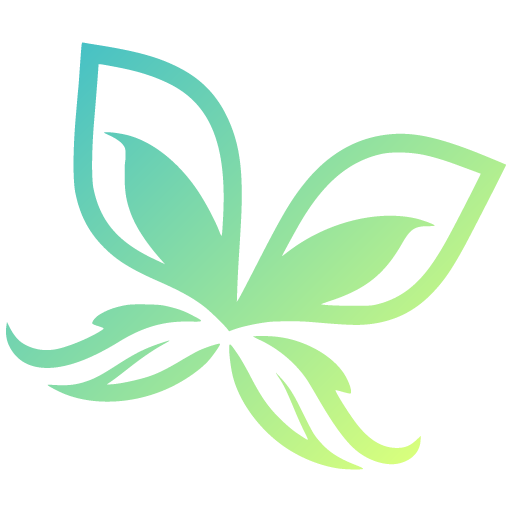
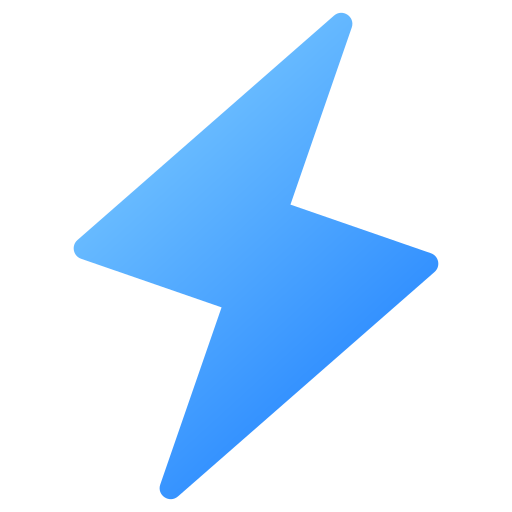
20260513end

diff --git a/src/config/siteConfig.ts b/src/config/siteConfig.ts
@@ -33,7 +33,7 @@ export const siteConfig: SiteConfig = {
 	// 主题色
 	themeColor: {
 		// 主题色的默认色相，范围从 0 到 360。例如：红色：0，青色：200，蓝绿色：250，粉色：345
-		hue: 165,
+		hue: 210,
 		// 是否对访问者隐藏主题色选择器
 		fixed: false,
 		// 默认模式："light" 亮色，"dark" 暗色，"system" 跟随系统
@@ -43,14 +43,14 @@ export const siteConfig: SiteConfig = {
 	// 页面整体宽度（单位：rem）
 	// 数值越大可以让页面内容区域更宽
 	// 在使用单侧栏边栏时，建议调低一些宽度以获得更好的视觉效果。
-	pageWidth: 100,
+	pageWidth: 95,
 
 	// 网站Card样式配置
 	card: {
 		// 是否开启卡片边框和阴影，开启后让网站更有立体感
 		border: true,
 		// 是否让卡片风格跟随主题色相
-		followTheme: false,
+		followTheme: true,
 	},
 
 	// Favicon 配置
@@ -85,7 +85,7 @@ export const siteConfig: SiteConfig = {
 		// 导航菜单对齐方式，left：左对齐，center：居中
 		menuAlign: "center",
 		// 导航栏图标和标题是否跟随主题色
-		followTheme: false,
+		followTheme: true,
 		// 导航栏是否固定在顶部并始终可见
 		stickyNavbar: true,
 	},

diff --git a/src/config/backgroundWallpaper.ts b/src/config/backgroundWallpaper.ts
@@ -47,7 +47,8 @@ export const backgroundWallpaper: BackgroundWallpaperConfig = {
 			"assets/images/DesktopWallpaper/d4.avif",
 			"assets/images/DesktopWallpaper/d5.avif",
 			"assets/images/DesktopWallpaper/d6.avif",
-		],
+			"assets/images/DesktopWallpaper/d7.avif",
+	],
 		// 移动背景图片（支持单张或多张随机）
 		// mobile: "assets/images/MobileWallpaper/m1.avif",
 		mobile: [
@@ -163,7 +164,7 @@ export const backgroundWallpaper: BackgroundWallpaperConfig = {
 		// 壁纸透明度
 		opacity: 0.8,
 		// 背景模糊度
-		blur: 10,
+		blur: 5,
 		// 卡片透明度，0-1之间，值越小越透明
 		cardOpacity: 0.5,
 	},

diff --git a/src/content/posts/2026-05-13-1.md b/src/content/posts/2026-05-13-1.md
@@ -1,0 +1,72 @@
+---
+title: Burp Suite 逻辑漏洞：并发实现批量注册
+published: 2026-05-13
+description: 深入理解并发漏洞（Race Condition）原理，并利用 Burp Suite 进行批量注册相同用户名的实战演示。
+image: ./2026-05-images/2026-05-12-0.avif
+tags: [Burp Suite, 渗透测试, 逻辑漏洞, 并发漏洞]
+category: 网络安全
+draft: false
+---
+
+# 🛡️ 声明：此教程仅用于合法合规网络安全学习，禁止用于未授权测试
+
+> 在逻辑漏洞挖掘中，并发漏洞（Race Condition）往往能突破系统的业务限制。当服务器在处理多个请求时未能正确同步处理顺序，我们就能利用时间差完成“不可能完成的操作”。本文将记录如何利用 Burp Suite（以下简称 BP）进行并发请求，实现批量注册相同用户名的过程。
+
+---
+
+## 一、 靶场目标与背景
+
+并发漏洞的核心在于“时序冲突”。以注册场景为例，系统通常会先校验用户名是否存在，然后再写入数据库。如果我们在校验与写入的极短间隔内发送大量请求，就有可能绕过唯一性校验。
+
+![靶场目标](./2026-05-images/2026-05-13-1.avif)
+
+---
+
+## 二、 实战步骤
+
+### 1. 环境准备与信息填写
+首先确保 BP 代理设置正确（默认 `127.0.0.1:8080`）。打开目标注册页面，按照常规流程填入基本信息，准备好用户名和初始密码。
+
+![填写信息](./2026-05-images/2026-05-13-2.avif)
+
+### 2. 截获注册请求
+进入验证手机或提交注册的最后一步。获取验证码后，**在 BP 中开启 Intercept (拦截模式)**，点击“立即注册”按钮，截获该 POST 请求。
+
+![拦截请求](./2026-05-images/2026-05-13-3.avif)
+
+### 3. 配置 Intruder 模块
+将截获的请求发送至 **Intruder** 模块。
+* **Payloads 设置**：将 Payload type 选为 `Null payloads`（空负载）。
+* **生成设置**：选择 `Continue indefinitely`（无限生成）或指定生成 20-50 个请求。
+* **位置设置**：不需要在包体中设置特定变量，我们的目的是多次重复发送同一个原始包。
+
+![Intruder配置](./2026-05-images/2026-05-13-4.avif)
+
+### 4. 优化并发策略 (Resource Pool)
+为了提高成功率，我们需要调整并发大小。在 **Resource pool** 选项卡中：
+* 创建一个新的资源池。
+* 将 `Maximum concurrent requests`（最大并发请求数）调高（例如 50）。
+* 确保请求之间没有延迟，以达到真正的“并发”效果。
+
+![并发设置](./2026-05-images/2026-05-13-5.avif)
+
+### 5. 发起攻击与观察结果
+点击 **Start attack**。在结果页面重点观察 **Length（响应长度）** 或 **Status（状态码）**。
+* 如果出现多个相同长度且状态码为 200（或跳转）的请求，说明服务器在同一时间处理了多个注册申请。
+
+![攻击结果](./2026-05-images/2026-05-13-6.avif)
+
+---
+
+## 三、 结果验证
+
+攻击结束后，记得关闭 BP 的拦截模式。回到登录页面或数据库查看，如果发现同一个用户名被成功注册了多次，说明该并发漏洞利用成功。
+
+![成功展示](./2026-05-images/2026-05-13-7.avif)
+
+---
+
+## 四、 防御建议
+1.  **数据库加锁**：在数据库层面使用唯一索引（Unique Index）或行级锁。
+2.  **代码同步控制**：在处理校验与写入的逻辑块中使用同步锁机制。
+3.  **队列化处理**：将关键业务请求放入队列中，强制进行串行化处理。